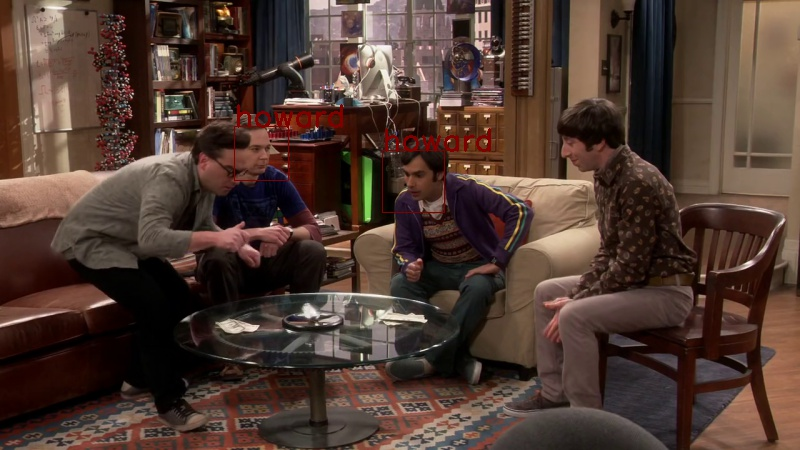
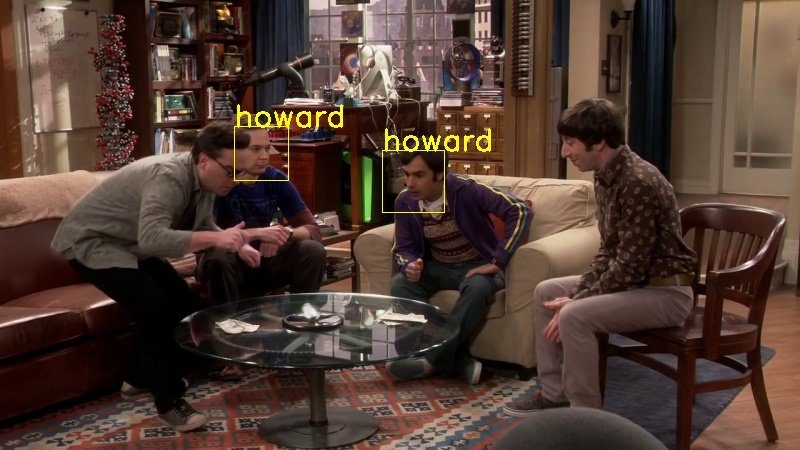
update

diff --git a/detect_and_label_video.py b/detect_and_label_video.py
@@ -132,9 +132,9 @@ while True:
         # cv2.imshow('image', image)
         # cv2.imshow('face', face)
         [this_pt1, this_pt2] = get_pts_in_box((x, y, w, h))
-        cv2.rectangle(image, this_pt1, this_pt2, (0,0,128))
+        cv2.rectangle(image, this_pt1, this_pt2, (0,255,255))
         cv2.putText(image, label, this_pt1, font, fontScale,
-                (0,0,128), lineType)
+                (0,255,255), lineType)
 
 
     for idx, rect in enumerate(profile_faces):
@@ -151,9 +151,9 @@ while True:
         # cv2.imshow('image', image)
         # cv2.imshow('face', face)
         [this_pt1, this_pt2] = get_pts_in_box((x, y, w, h))
-        cv2.rectangle(image, this_pt1, this_pt2, (0,128,0))
+        cv2.rectangle(image, this_pt1, this_pt2, (0,255,0))
         cv2.putText(image, label, this_pt1, font, fontScale,
-                (0,128,0), lineType)
+                (0,255,0), lineType)
 
 
     # cv2.imshow('image', image)
@@ -161,6 +161,6 @@ while True:
     print('saving', cur_frame);
     cv2.imwrite('video_out/'+str(cur_frame)+'.jpg', image)
     cur_frame += 1
-    if (cur_frame > 1000):
+    if (cur_frame > 150):
         break
 
